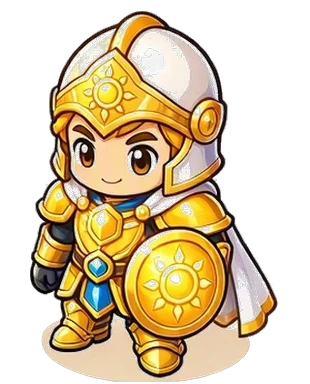
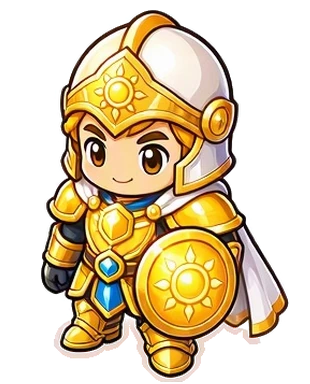
Comandantes recortados de nuevo, Pantano Tóxico con portales y barra de cartas visible en el móvil

diff --git a/style.css b/style.css
@@ -2172,8 +2172,8 @@ x-ico.off { filter: grayscale(1) brightness(0.45); opacity: 0.75; }
 .tc.r-mitica { background-image: url(assets/ui/fondo-carta-mitica.webp), linear-gradient(180deg, #fff1a8 0%, #f5c400 35%, #c98a00 70%, #8a5a00 100%); }
 .tc.r-legendaria { background-image: url(assets/ui/fondo-carta-legendaria.webp), linear-gradient(180deg, #fff1a8 0%, #f5c400 35%, #c98a00 70%, #8a5a00 100%); }
 .tc:active { transform: translateY(3px) scale(0.97); box-shadow: 0 1px 0 #3a2600; }
-.tc-art { display: block; width: 84%; margin-top: 9%; aspect-ratio: 1; }
-.tc-art img { display: block; width: 100%; height: 100%; filter: drop-shadow(0 3px 3px rgba(0,0,0,0.5)); }
+.tc-art { display: block; width: 84%; margin-top: 9%; aspect-ratio: 1; min-height: 0; flex-shrink: 1; }
+.tc-art img { display: block; width: 100%; height: 100%; object-fit: contain; filter: drop-shadow(0 3px 3px rgba(0,0,0,0.5)); }
 .tc-el {
   position: absolute; top: 3px; right: 3px; width: 20px; height: 20px; display: grid; place-items: center; border-radius: 50%;
   background: rgba(8,12,40,0.8); border: 1.5px solid rgba(255,214,90,0.8);
@@ -2195,13 +2195,13 @@ x-ico.off { filter: grayscale(1) brightness(0.45); opacity: 0.75; }
 .tc.ready .tc-lv { color: #123800; }
 .tc.ready { box-shadow: 0 4px 0 #3a2600, 0 0 12px 2px rgba(111,216,58,0.75); }
 /* barra de cartas */
-.tc-bar { position: relative; width: 84%; height: 12px; margin-top: 3px; border-radius: 999px; background: #0b1238; border: 1.5px solid var(--ink); overflow: hidden; }
+.tc-bar { position: relative; flex-shrink: 0; width: 84%; height: 12px; margin: 3px 0; border-radius: 999px; background: #0b1238; border: 1.5px solid var(--ink); overflow: hidden; }
 .tc-bar i { position: absolute; inset: 0 auto 0 0; background: linear-gradient(180deg, #8fe3ff, #3aa0ff); border-radius: 999px; }
 .tc-bar.full i { background: linear-gradient(180deg, #b6ff8a, #3fcf4a); }
 .tc-bar em { position: relative; display: block; text-align: center; font: 400 0.6rem/10px 'Lilita One', sans-serif; font-style: normal; color: #fff; -webkit-text-stroke: 2px var(--ink); paint-order: stroke fill; }
 /* placa del nombre */
 .tc-name {
-  display: block; width: 100%; margin-top: auto; padding: 3px 2px 4px; text-align: center; white-space: nowrap; overflow: hidden; text-overflow: ellipsis;
+  display: block; flex-shrink: 0; width: 100%; margin-top: auto; padding: 3px 2px 4px; text-align: center; white-space: nowrap; overflow: hidden; text-overflow: ellipsis;
   background: linear-gradient(180deg, rgba(6,10,36,0.55), rgba(6,10,36,0.9)); border-top: 1px solid rgba(255,214,90,0.45);
   font: 400 0.74rem 'Lilita One', sans-serif; color: #fff; -webkit-text-stroke: 2.5px var(--ink); paint-order: stroke fill;
 }

diff --git a/js/board.js b/js/board.js
@@ -74,7 +74,10 @@ var FIELDS = {
     gx0: 340, gy0: 218, gx1: 908, gy1: 515,
     way: [[175, 668], [195, 600], [205, 300], [235, 170], [320, 140], [930, 140], [1020, 170], [1045, 260], [1050, 560], [1052, 668]] },
   // tableros con sus casillas ya dibujadas (assets/tablero-estelar*, roca-2 y
-  // veneno-2): ownTiles, sin losetas encima; sin portales (taparían la fila de abajo)
+  // veneno-2): ownTiles, sin losetas encima; sin portales (taparían la fila de abajo).
+  // veneno2 sí los lleva, pequeños (portalW) en las esquinas de abajo del anillo;
+  // slabs: dónde está cada losa dibujada (x y y en px), para que la especial
+  // la tape justa; mobScale: monstruos algo más pequeños, que el camino es estrecho
   estelar: { image: 'boards/estelar', iw: 1024, ih: 559, cx: 35, cy: 52, cw: 940, ch: 450, portal: true, over: true, ownGates: true, ownTiles: true, frame: [0, 0, 1024, 559],
     gx0: 268, gy0: 165, gx1: 757, gy1: 380,
     way: [[105, 445], [195, 420], [195, 122], [850, 122], [850, 420], [905, 462]] },
@@ -84,9 +87,10 @@ var FIELDS = {
   roca2: { image: 'boards/roca2', iw: 1248, ih: 832, cx: 148, cy: 114, cw: 972, ch: 718, portal: true, over: true, ownGates: true, ownTiles: true, frame: [0, 0, 1248, 832],
     gx0: 315, gy0: 222, gx1: 935, gy1: 535,
     way: [[232, 830], [222, 650], [218, 184], [1045, 184], [1050, 650], [965, 830]] },
-  veneno2: { image: 'boards/veneno2', iw: 1248, ih: 832, cx: 128, cy: 105, cw: 1002, ch: 563, portal: true, over: true, ownGates: true, ownTiles: true, frame: [0, 0, 1248, 832],
+  veneno2: { image: 'boards/veneno2', iw: 1248, ih: 832, cx: 128, cy: 105, cw: 1002, ch: 563, portal: true, over: true, gates: true, portalW: 1.15, ownTiles: true, mobScale: 0.8, frame: [0, 0, 1248, 832],
     gx0: 245, gy0: 210, gx1: 1000, gy1: 578,
-    way: [[330, 628], [200, 615], [198, 175], [1058, 175], [1060, 615], [930, 628]] }
+    slabs: { xs: [[252, 393], [404, 543], [554, 691], [701, 842], [849, 993]], ys: [[213, 318], [328, 436], [447, 562]] },
+    way: [[192, 660], [200, 615], [198, 175], [1058, 175], [1060, 615], [1066, 660]] }
 };
 // con varios tableros para un bioma se elige uno al azar en cada partida
 var BIOME_FIELD = { prado: ['prado', 'prado3'], bosque: ['prado', 'prado3'], pantano: ['veneno', 'veneno2'], hielo: ['hielo', 'hielo2'], ruinas: ['roca', 'roca2'], desierto: ['roca', 'roca2'], volcan: ['lava2', 'lava3'], cripta: ['estelar', 'estelar2'] };

diff --git a/js/battle.js b/js/battle.js
@@ -1083,7 +1083,7 @@ function drawBoard(b, L, now, isMain) {
     var grow = G.image && !G.px.portal ? 1 : Math.min(1, 0.25 + e.d / 0.5);
     if (G.image && G.px.portal) grow = Math.min(grow, 0.25 + (G.len - e.d) / 0.5);
     if (grow < 1) ctx.globalAlpha = grow;
-    drawEnemy(ctx, e, (e.boss ? 0.42 : d.size) * (G.image ? 0.82 : 1) * grow, now);
+    drawEnemy(ctx, e, (e.boss ? 0.42 : d.size) * (G.image ? 0.82 * (G.px.mobScale || 1) : 1) * grow, now);
     ctx.globalAlpha = 1;
   });
   // Escudo divino de Sol: esfera de luz tapando la salida mientras dure
@@ -1365,7 +1365,12 @@ function drawTileFloor(type, cc, G, i, now, b) {
     r = { x: fr.x + bx.x0 * fr.w, y: fr.y + bx.y0 * fr.h, w: (bx.x1 - bx.x0) * fr.w, h: (bx.y1 - bx.y0) * fr.h };
   } else if (b && b.floor && b.floor[i] === 'none') {
     // casilla ya dibujada en el tablero: la losa especial la cubre entera
-    r = { x: cc.x - G.cw * 0.46, y: cc.y - G.ch * 0.46, w: G.cw * 0.92, h: G.ch * 0.92 };
+    // (justo encima de la dibujada si el tablero dice dónde está cada una)
+    var sl = G.px && G.px.slabs;
+    if (sl) {
+      var F = G.px, cell = (F.gx1 - F.gx0) / COLS, sx = sl.xs[i % COLS], sy = sl.ys[Math.floor(i / COLS)];
+      r = { x: (sx[0] - F.cx) / cell, y: (sy[0] - F.cy) / cell, w: (sx[1] - sx[0]) / cell, h: (sy[1] - sy[0]) / cell };
+    } else r = { x: cc.x - G.cw * 0.46, y: cc.y - G.ch * 0.46, w: G.cw * 0.92, h: G.ch * 0.92 };
   } else r = { x: cc.x - s * 0.485, y: cc.y - s * 0.485, w: s * 0.97, h: s * 0.97 };
   if (pic) {
     glow(ctx, r.x + r.w / 2, r.y + r.h / 2, s * 0.55, t.color, 0.22 + pulse * 0.1);
@@ -1429,8 +1434,8 @@ function drawPathSigns(G) {
     [['entrada', w[0]], ['salida', w[w.length - 1]]].forEach(function (p) {
       var pic = art('ui/portal-' + p[0]);
       if (!pic) return;
-      var h = PORTAL_W * pic.naturalHeight / pic.naturalWidth;
-      ctx.drawImage(pic, p[1].x - PORTAL_W / 2, p[1].y + 0.45 - h, PORTAL_W, h);
+      var pw = F.portalW || PORTAL_W, h = pw * pic.naturalHeight / pic.naturalWidth;
+      ctx.drawImage(pic, p[1].x - pw / 2, p[1].y + 0.45 - h, pw, h);
     });
     return;
   }

diff --git a/index.html b/index.html
@@ -15,7 +15,7 @@
 <link rel="preconnect" href="https://fonts.googleapis.com">
 <link rel="preconnect" href="https://fonts.gstatic.com" crossorigin>
 <link href="https://fonts.googleapis.com/css2?family=Fredoka:wght@500;600;700&family=Lilita+One&family=Nunito:wght@700;800;900&family=Titan+One&display=swap" rel="stylesheet">
-<link rel="stylesheet" href="style.css?v=74">
+<link rel="stylesheet" href="style.css?v=75">
 </head>
 <body>
   <div id="menu" class="menu"></div>
@@ -57,12 +57,12 @@
   <div id="overlay" class="overlay" hidden></div>
   <div id="toast" class="toast"></div>
 
-  <script src="js/data.js?v=58"></script>
-  <script src="js/version.js?v=60"></script>
+  <script src="js/data.js?v=59"></script>
+  <script src="js/version.js?v=61"></script>
   <script src="js/art.js?v=52"></script>
   <script src="js/meta.js?v=36"></script>
-  <script src="js/board.js?v=56"></script>
-  <script src="js/battle.js?v=67"></script>
+  <script src="js/board.js?v=57"></script>
+  <script src="js/battle.js?v=68"></script>
   <script src="js/music.js?v=1"></script>
   <script src="js/ui.js?v=81"></script>
 </body>

diff --git a/js/data.js b/js/data.js
@@ -539,7 +539,7 @@ var COMMANDERS = {
   torvald: { name: 'Torvald', title: 'Viejo Maestro', color: '#ff7a3c', icon: '🧮', locked: true, pic: 'assets/commanders/torvald.webp?v=3', hero: 1, ability: 'Forja', desc: 'Eliges una tropa y sube un rango, hasta el 5.', power: 1, cd: 90, grow: 0.6 }
 };
 var COMMANDER_ORDER = ['aria', 'merlo', 'brann', 'nyx', 'sol', 'morgana', 'torvald'];
-COMMANDER_ORDER.forEach(function (k) { var c = COMMANDERS[k]; c.body = c.gen ? '' : 'assets/commanders/' + k + '-cuerpo.webp?v=' + (k === 'brann' || k === 'merlo' ? 5 : 4); });
+COMMANDER_ORDER.forEach(function (k) { var c = COMMANDERS[k]; c.body = c.gen ? '' : 'assets/commanders/' + k + '-cuerpo.webp?v=6'; });
 // niveles de comandante: cada nivel, +CMD_BONUS de fuerza en su habilidad.
 // Sus cartas salen solo en el cofre de comandante (pocas), por eso piden menos.
 // Del 11 al 25 cada nivel da menos (CMD_BONUS_HIGH) y pide bastante más.

diff --git a/js/version.js b/js/version.js
@@ -7,8 +7,17 @@
    La ventana sale sola al entrar con una versión nueva (meta.lastSeenVersion)
    y también desde Opciones.
    ========================================================= */
-var APP_VERSION = '1.31.2';
+var APP_VERSION = '1.31.3';
 var APP_PATCH_NOTES = [
+  {
+    version: '1.31.3',
+    summary: 'Comandantes bien recortados y Pantano con portales',
+    items: [
+      'Los siete comandantes, recortados de nuevo: Aria ya sale entera, Merlo sin manchas blancas, Brann centrado y Sol y Torvald sin huecos.',
+      'En el Pantano Tóxico se ven el portal de entrada y el de salida, los monstruos son algo más pequeños y las casillas especiales encajan en su losa.',
+      'En el móvil, la barra de cartas de cada tropa ya no queda tapada por su nombre.'
+    ]
+  },
   {
     version: '1.31.2',
     summary: 'Brann y Merlo retocados',

diff --git a/sw.js b/sw.js
@@ -6,7 +6,7 @@
 // archivo por su cuenta: si uno falla, los demás se quedan. El arte (EXTRA)
 // se baja después, de pocos en pocos y sin bloquear, y lo que se vaya
 // usando se guarda igualmente al pedirlo.
-var CACHE = 'reino-de-torres-v98';
+var CACHE = 'reino-de-torres-v99';
 // tropas con el dibujo nuevo (assets/personajes)
 var NEW_ART = ['cronos', 'eco', 'garra', 'halcon', 'kaia', 'lyra', 'oria', 'rocco', 'seren', 'sombra', 'titan', 'fenix'];
 var CORE = ['./', 'index.html', 'style.css', 'favicon.svg', 'manifest.json', 'js/data.js', 'js/version.js', 'js/art.js', 'js/meta.js', 'js/board.js', 'js/battle.js', 'js/music.js', 'js/ui.js',
